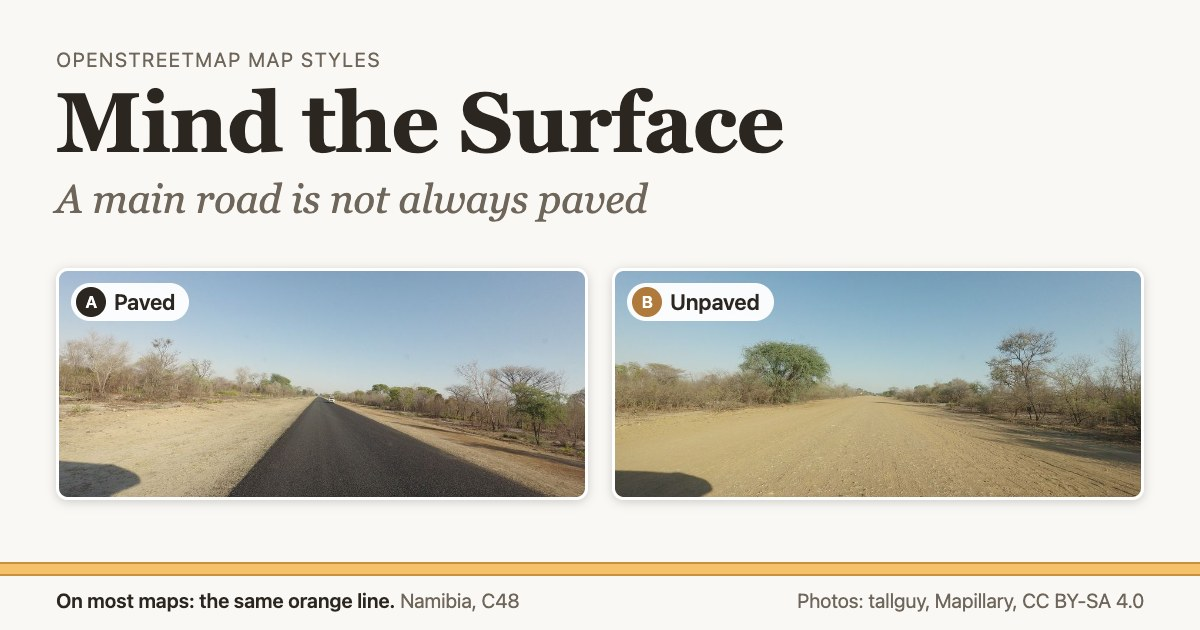
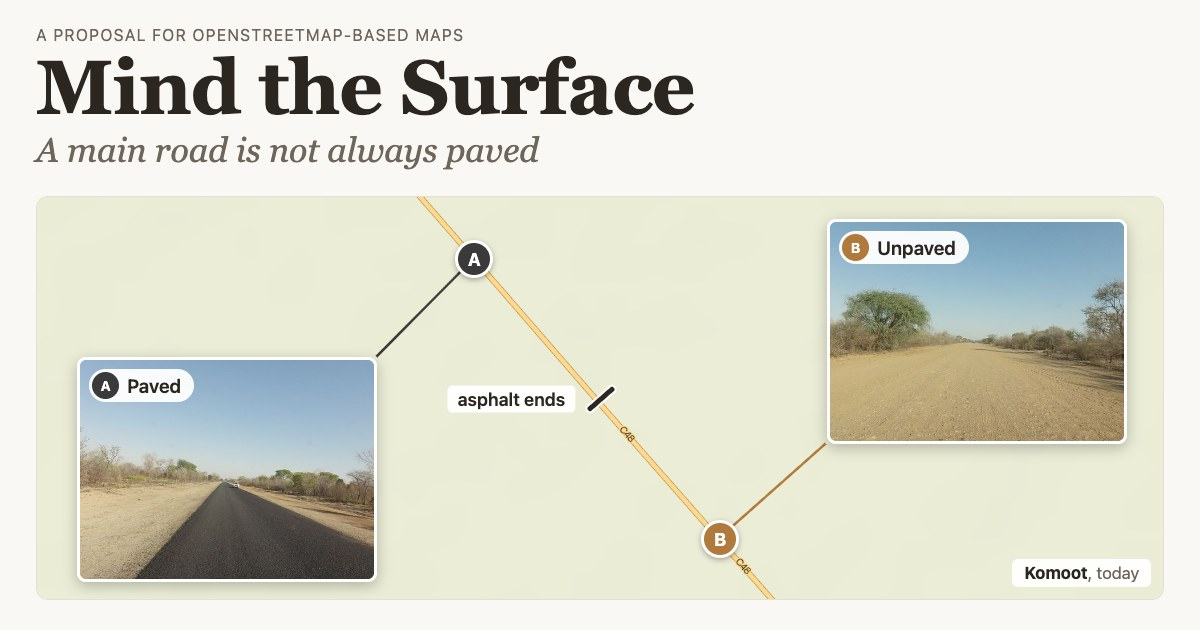
Link preview card: the article header and hero (Komoot map, pins, photos) in 1200 x 630; todo updated

diff --git a/article/og.html b/article/og.html
@@ -2,36 +2,55 @@
 <html lang="en">
 <head>
 <meta charset="utf-8">
-<!-- Link preview card (Facebook, forum, Mastodon), 1200 x 630. Render with: node scripts/og-image.mjs -> article/img/og.jpg -->
+<!-- Link preview card (Facebook, forum, Mastodon), 1200 x 630: the article's header and hero, the map cropped shorter.
+     Render with: node scripts/og-image.mjs -> article/img/og.jpg
+     Map box 1128 x 404 shows hero-komoot.png (1600 x 900) at scale 0.705, cropped 115 px from the top.
+     Road in the image: x = 400 + 0.8778 y, so pins and the tick below sit on it (asphalt ends at the image centre, as in the article). -->
 <style>
-  :root { --ink: #2b2620; --muted: #6f665b; --paper: #faf8f4; --line: #e4ded4; --road: #f5c26b; --casing: #c9923a; }
+  :root { --ink: #2b2620; --muted: #6f665b; --paper: #faf8f4; --line: #e4ded4; --asphalt: #3a3a3a; --gravel: #b07a3c; }
   * { box-sizing: border-box; }
   html, body { margin: 0; width: 1200px; height: 630px; overflow: hidden; }
-  body { background: var(--paper); color: var(--ink); font-family: system-ui, -apple-system, "Segoe UI", sans-serif; padding: 48px 56px 0; position: relative; }
-  .kicker { font-size: 20px; letter-spacing: .08em; text-transform: uppercase; color: var(--muted); margin: 0 0 10px; }
-  h1 { font: 700 84px/1 Georgia, "Times New Roman", serif; margin: 0; letter-spacing: -.01em; }
-  .sub { font: italic 40px/1.2 Georgia, serif; color: var(--muted); margin: 10px 0 0; }
-  .photos { position: absolute; left: 56px; right: 56px; top: 268px; display: flex; gap: 24px; }
-  .photo { position: relative; flex: 1; height: 232px; border-radius: 12px; overflow: hidden; border: 3px solid #fff; box-shadow: 0 2px 10px rgba(0,0,0,.18); }
+  body { background: var(--paper); color: var(--ink); font-family: system-ui, -apple-system, "Segoe UI", sans-serif; padding: 26px 36px 0; position: relative; }
+  .kicker { font-size: 16px; letter-spacing: .08em; text-transform: uppercase; color: var(--muted); margin: 0 0 6px; }
+  h1 { font: 700 76px/1 Georgia, "Times New Roman", serif; margin: 0; letter-spacing: -.01em; }
+  .sub { font: italic 34px/1.2 Georgia, serif; color: var(--muted); margin: 4px 0 0; }
+  .hero { position: absolute; left: 36px; top: 196px; width: 1128px; height: 404px; border-radius: 12px; overflow: hidden; border: 1px solid var(--line); }
+  .hero > img { width: 100%; height: 100%; display: block; object-fit: cover; }
+  .leaders { position: absolute; inset: 0; }
+  .leaders line { stroke-width: 2.5; }
+  .pin { position: absolute; transform: translate(-50%, -50%); width: 38px; height: 38px; border-radius: 50%; border: 3px solid #fff;
+         box-shadow: 0 2px 6px rgba(0,0,0,.35); color: #fff; display: grid; place-items: center; font: 700 18px system-ui, sans-serif; }
+  .a { background: var(--asphalt); } .b { background: var(--gravel); }
+  .pin.a { left: 437px; top: 62px; } .pin.b { left: 683px; top: 342px; }
+  .tick { position: absolute; left: 564px; top: 202px; width: 34px; height: 5px; border-radius: 2px; background: var(--ink); box-shadow: 0 0 0 2px #fff;
+          transform: translate(-50%, -50%) rotate(-41.3deg); }
+  .end { position: absolute; left: 564px; top: 202px; transform: translate(calc(-100% - 26px), -50%); font-size: 18px; font-weight: 600;
+         background: rgba(255,255,255,.94); border-radius: 5px; padding: 3px 10px; white-space: nowrap; }
+  .photo { position: absolute; width: 300px; height: 225px; border-radius: 9px; overflow: hidden; border: 3px solid #fff; box-shadow: 0 4px 14px rgba(0,0,0,.25); }
   .photo img { width: 100%; height: 100%; object-fit: cover; display: block; }
-  .chip { position: absolute; left: 12px; top: 12px; display: flex; align-items: center; gap: 8px; background: rgba(255,255,255,.95); border-radius: 999px; padding: 4px 14px 4px 5px; font: 600 22px/1 system-ui, sans-serif; }
-  .chip i { font-style: normal; width: 30px; height: 30px; border-radius: 50%; color: #fff; display: grid; place-items: center; font-size: 17px; }
-  .a i { background: var(--ink); } .b i { background: #b07a3c; }
-  /* the map line under both photos: one orange road, the same on both sides */
-  .road { position: absolute; left: 0; right: 0; bottom: 54px; height: 14px; background: var(--road); border-top: 2px solid var(--casing); border-bottom: 2px solid var(--casing); }
-  .note { position: absolute; left: 56px; right: 56px; bottom: 18px; display: flex; justify-content: space-between; font-size: 20px; color: var(--muted); }
-  .note b { color: var(--ink); font-weight: 600; }
+  .photo.pa { left: 40px; top: 160px; } .photo.pb { left: 790px; top: 22px; }
+  .tag { position: absolute; left: 9px; top: 9px; display: flex; gap: 8px; align-items: center; background: rgba(255,255,255,.94);
+         border-radius: 999px; padding: 3px 13px 3px 3px; font-weight: 600; font-size: 19px; }
+  .tag i { width: 27px; height: 27px; border-radius: 50%; color: #fff; display: grid; place-items: center; font: normal 700 14px system-ui; }
+  .applabel { position: absolute; right: 12px; bottom: 12px; background: rgba(255,255,255,.94); border-radius: 6px; padding: 4px 12px; font-size: 17px; color: var(--muted); }
+  .applabel b { color: var(--ink); }
 </style>
 </head>
 <body>
-  <p class="kicker">OpenStreetMap map styles</p>
+  <p class="kicker">A proposal for OpenStreetMap-based maps</p>
   <h1>Mind the Surface</h1>
   <p class="sub">A main road is not always paved</p>
-  <div class="photos">
-    <div class="photo"><img src="img/hero-paved.jpg" alt=""><span class="chip a"><i>A</i>Paved</span></div>
-    <div class="photo"><img src="img/hero-unpaved.jpg" alt=""><span class="chip b"><i>B</i>Unpaved</span></div>
+  <div class="hero">
+    <img src="img/hero-komoot.png" alt="">
+    <svg class="leaders" viewBox="0 0 1128 404">
+      <line x1="437" y1="62" x2="340" y2="160" stroke="#3a3a3a"/>
+      <line x1="683" y1="342" x2="790" y2="247" stroke="#b07a3c"/>
+    </svg>
+    <span class="pin a">A</span><span class="pin b">B</span>
+    <span class="tick"></span><span class="end">asphalt ends</span>
+    <div class="photo pa"><img src="img/hero-paved.jpg" alt=""><span class="tag"><i class="a">A</i>Paved</span></div>
+    <div class="photo pb"><img src="img/hero-unpaved.jpg" alt=""><span class="tag"><i class="b">B</i>Unpaved</span></div>
+    <span class="applabel"><b>Komoot</b>, today</span>
   </div>
-  <div class="road"></div>
-  <div class="note"><span><b>On most maps: the same orange line.</b> Namibia, C48</span><span>Photos: tallguy, Mapillary, CC BY-SA 4.0</span></div>
 </body>
 </html>

diff --git a/research/todo.md b/research/todo.md
@@ -26,7 +26,7 @@ Updated 2026-11-27 (Spirit PR #93 reworked and rendered; link preview card redon
 
 - App reports page, checked 2026-11-24 before the requests: Americana tracks and faint white-road dashes, DMD2 contact link, 109 test cases, OsmAnd surface zoom 13, cycle.travel A0 row done. cycle.travel tunnels checked by hand: no dashes, no collision.
 - Legend or wiki text: one line saying broken pavement is drawn as Unpaved on purpose (decision 15). Support if asked: Gaia GPS does the same (30 of 31 sampled paved minor roads with `smoothness` very_bad or worse drawn as tracks).
-- Link preview card (og:image) redone 2026-11-27 with the title and the two C48 photos: [article/og.html](../article/og.html), rendered by `node scripts/og-image.mjs` into [article/img/og.jpg](../article/img/og.jpg). Once pushed, check it in the [Facebook Sharing Debugger](https://developers.facebook.com/tools/debug/) (Scrape Again clears the old cached image).
+- Link preview card (og:image) redone 2026-11-27 as the article header and hero (title, Komoot map, pins A and B, both photos): [article/og.html](../article/og.html), rendered by `node scripts/og-image.mjs` into [article/img/og.jpg](../article/img/og.jpg). Once pushed, check it in the [Facebook Sharing Debugger](https://developers.facebook.com/tools/debug/) (Scrape Again clears the old cached image).
 - A short OSM wiki page for the tag mapping only, linking to the repo; an OSM diary entry; a Facebook post pointing to the diary.
 
 ## Research left
